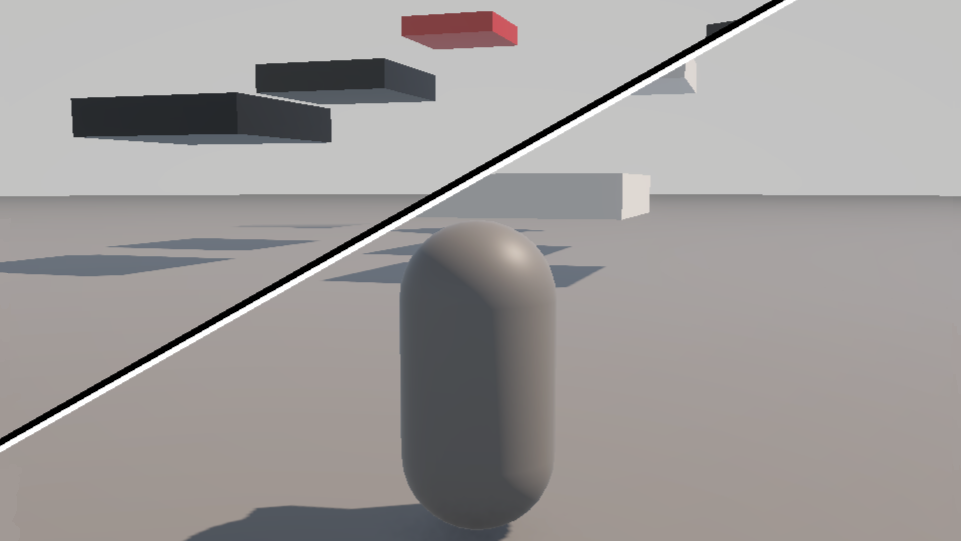
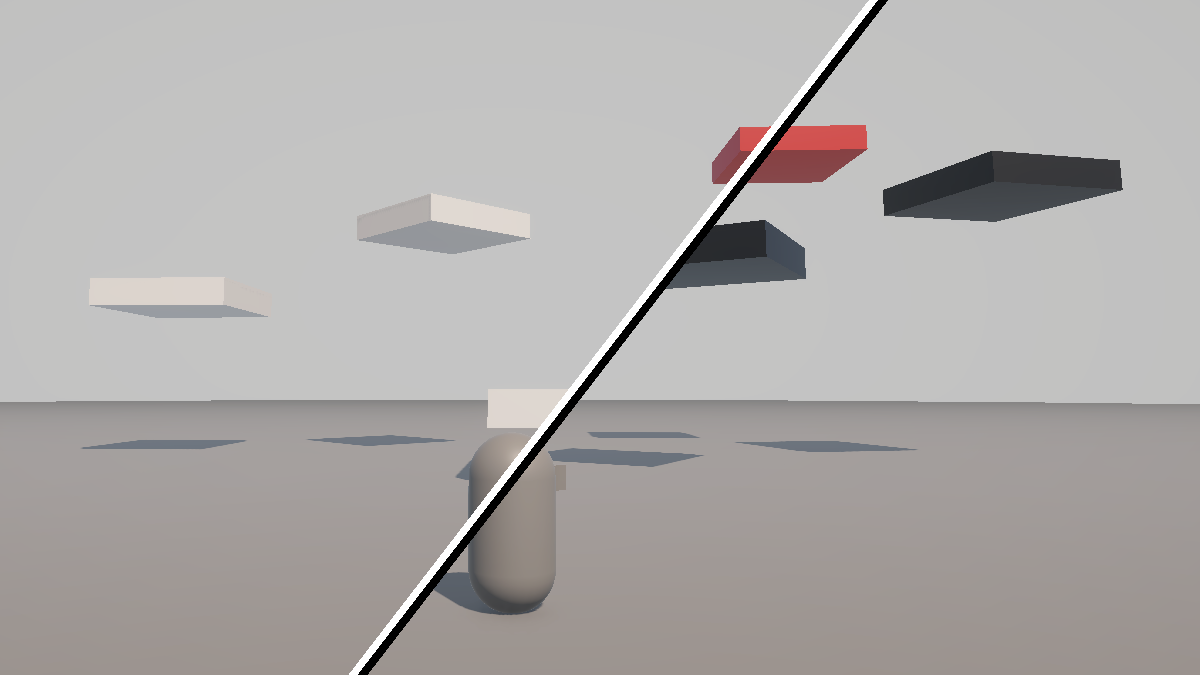
removed CVs and update Blind Trust poster

diff --git a/index.html b/index.html
@@ -29,10 +29,6 @@
         <h1>Andrea Precoma</h1>
         <a href="https://github.com/ErPreco" target="_blank" class="header-links">GitHub</a>
         <a href="https://www.linkedin.com/in/andreaprecoma" target="_blank" class="header-links">LinkedIn</a>
-        <div class="header-links">
-          <a href="./assets/pdf/Andrea Precoma - CV (ITA).pdf" download>CV (ITA)</a>
-          <a href="./assets/pdf/Andrea Precoma - CV (ENG).pdf" download>CV (ENG)</a>
-        </div>
       </div>
     </div>
 

diff --git a/css/screen.css b/css/screen.css
@@ -141,6 +141,10 @@ header {
   margin-left: 2em;
 }
 
+#header-info h1 {
+  margin-bottom: 0.8em;
+}
+
 .header-links {
   display: block;
   margin-top: 0.4em;

diff --git a/css/mini.css b/css/mini.css
@@ -11,6 +11,10 @@
   margin: 0;
 }
 
+#header-info h1 {
+  margin: 0;
+}
+
 h1 {
   margin: 0.3em 0;
   width: 100%;
